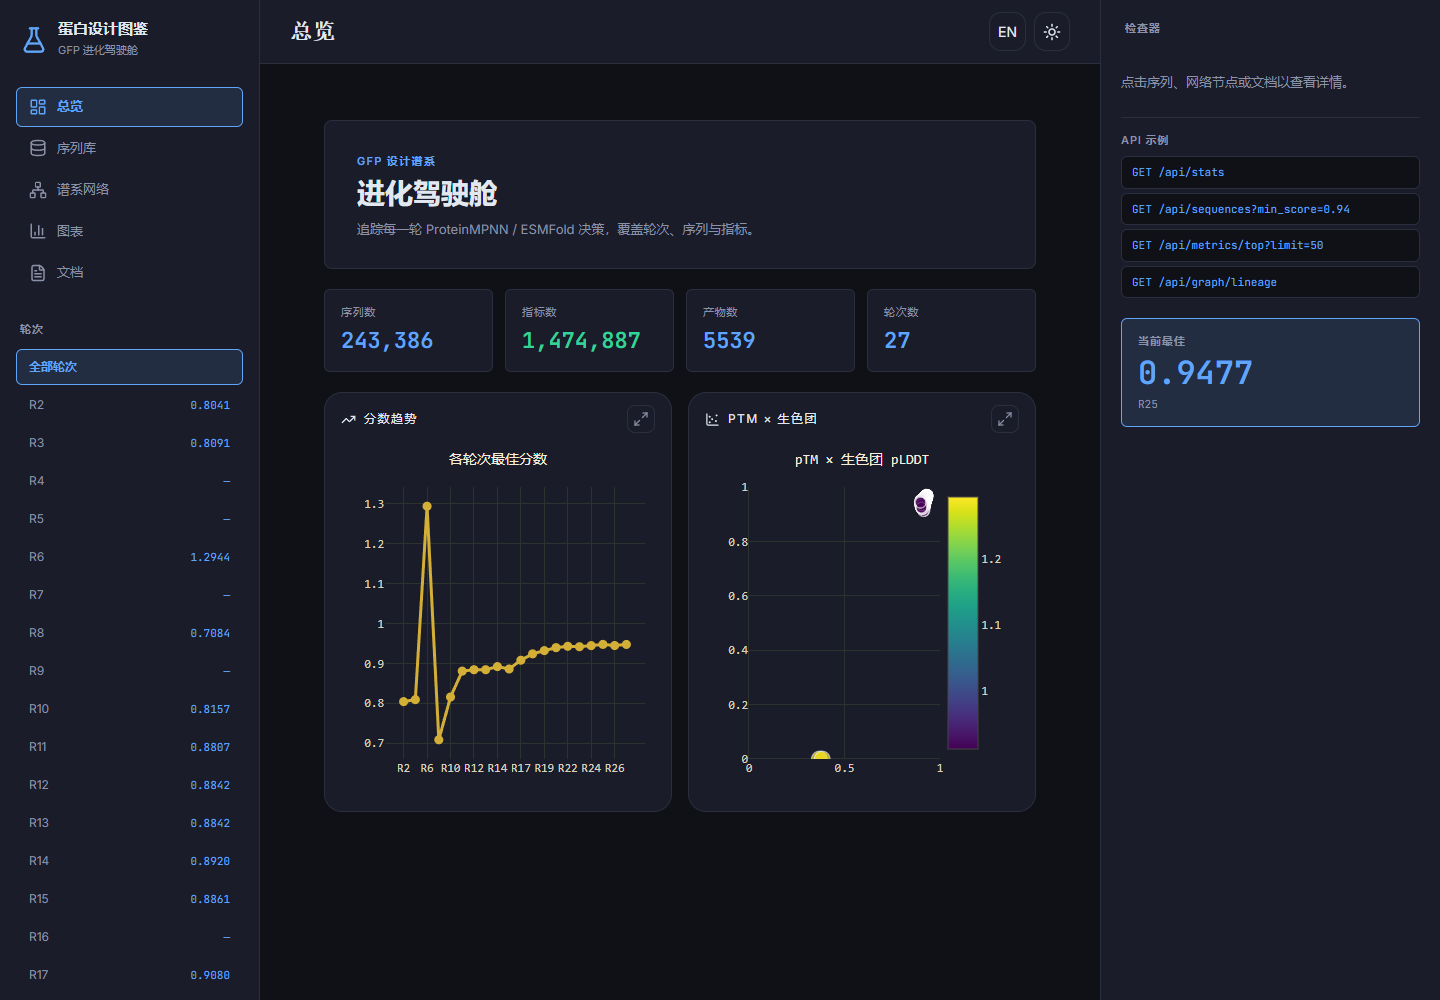
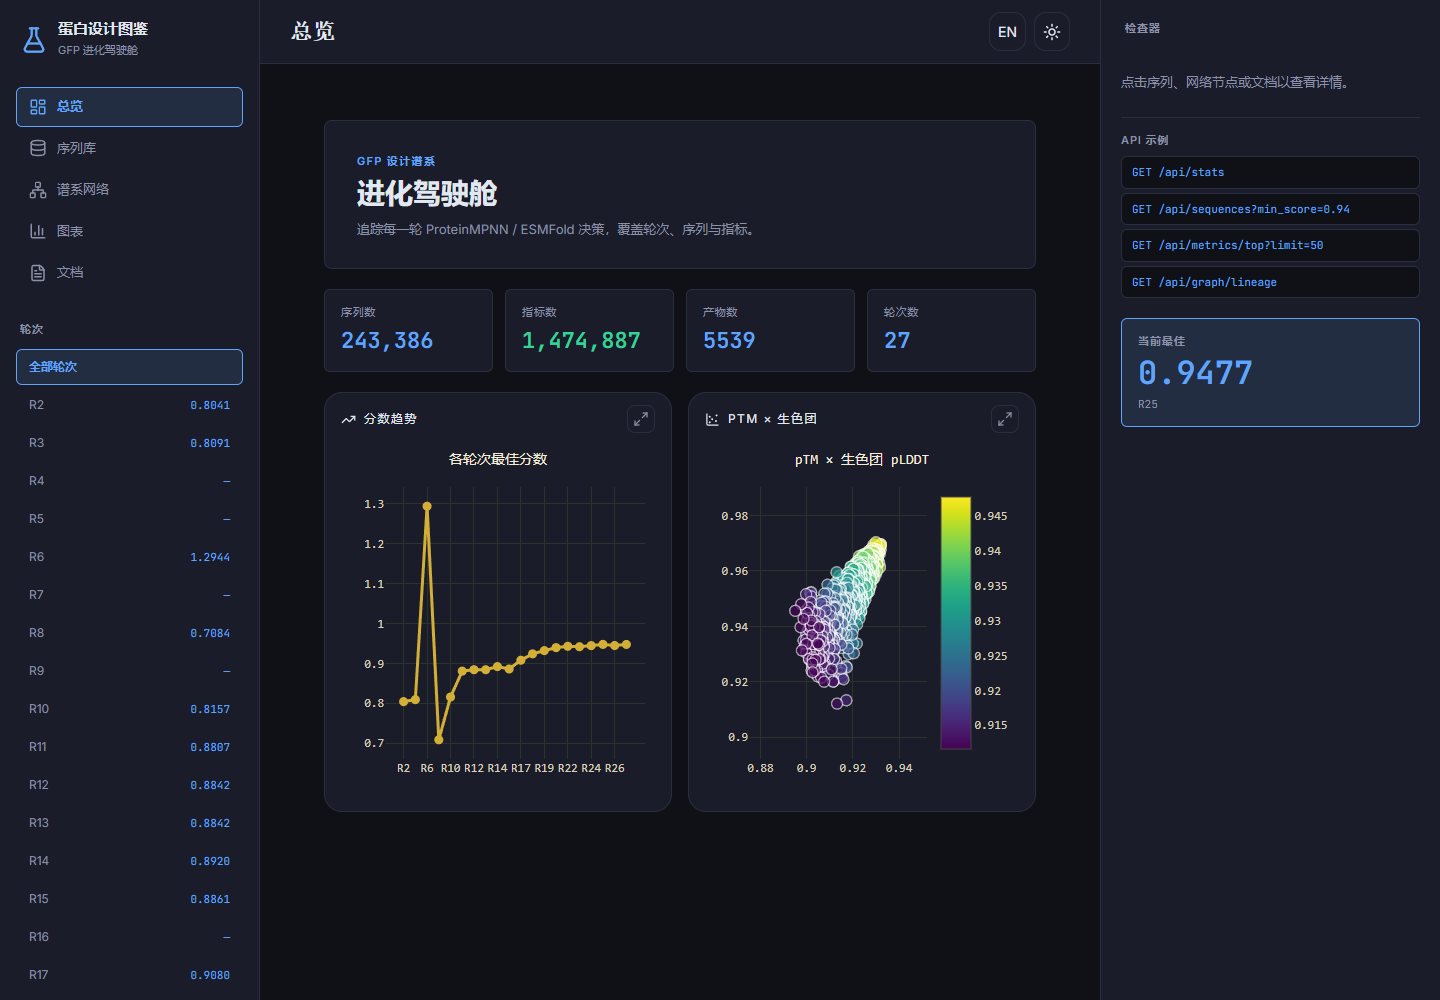
Fix: exclude R6 outliers, auto-fit scatter axes, fix network first-render

diff --git a/frontend/src/main.jsx b/frontend/src/main.jsx
@@ -328,19 +328,29 @@ function Dashboard({stats, trend, scatter, fsKey, setFsKey}) {
     return {...l, yaxis: {...l.yaxis, title: t.axisScore}}
   }, [theme, t])
 
-  const scatterTraces = useMemo(() => scatter.length ? [{
-    x: scatter.map(d => num(d.ptm)), y: scatter.map(d => num(d.chromo)),
-    text: scatter.map(d => `${d.source_round}<br>${num(d.score).toFixed(4)}`),
-    mode: 'markers', type: 'scatter',
-    marker: {
-      size: scatter.map(d => Math.max(5, num(d.score) * 12)),
-      color: scatter.map(d => num(d.score)), colorscale: 'Viridis', showscale: true
-    }
-  }] : [], [scatter])
+  const scatterTraces = useMemo(() => {
+    // 排除 R6 异常值（pLDDT 尺度异常）
+    const filtered = scatter.filter(d => d.source_round !== 'R6' && num(d.ptm) > 0 && num(d.chromo) > 0)
+    return filtered.length ? [{
+      x: filtered.map(d => num(d.ptm)), y: filtered.map(d => num(d.chromo)),
+      text: filtered.map(d => `${d.source_round}<br>${num(d.score).toFixed(4)}`),
+      mode: 'markers', type: 'scatter',
+      marker: {
+        size: filtered.map(d => Math.max(5, num(d.score) * 12)),
+        color: filtered.map(d => num(d.score)), colorscale: 'Viridis', showscale: true
+      }
+    }] : []
+  }, [scatter])
   const scatterLayout = useMemo(() => {
     const l = plotLayout(t.ptmVsChromo, theme)
-    return {...l, xaxis: {...l.xaxis, title: t.axisPtm, range: [0, 1]}, yaxis: {...l.yaxis, title: t.axisChromoPlddt, range: [0, 1]}}
-  }, [theme, t])
+    // 自适应范围，不硬编码 [0,1]
+    const pts = scatter.filter(d => d.source_round !== 'R6' && num(d.ptm) > 0 && num(d.chromo) > 0)
+    if (!pts.length) return l
+    const xs = pts.map(d => num(d.ptm)), ys = pts.map(d => num(d.chromo))
+    const xmin = Math.min(...xs) - 0.02, xmax = Math.max(...xs) + 0.02
+    const ymin = Math.min(...ys) - 0.02, ymax = Math.max(...ys) + 0.02
+    return {...l, xaxis: {...l.xaxis, title: t.axisPtm, range: [xmin, xmax]}, yaxis: {...l.yaxis, title: t.axisChromoPlddt, range: [ymin, ymax]}}
+  }, [theme, t, scatter])
 
   return (
     <main className="main">
@@ -430,6 +440,9 @@ function NetworkPage({onSelect, fsKey, setFsKey}) {
       })
       cy.on('tap', 'node', e => onSelect(e.target.data()))
       cyRef.current = cy
+      // 首次渲染时延迟 resize + fit，确保容器有尺寸
+      setTimeout(() => { if (cyRef.current) { cyRef.current.resize(); cyRef.current.fit(null, 30) } }, 200)
+      setTimeout(() => { if (cyRef.current) { cyRef.current.resize(); cyRef.current.fit(null, 30) } }, 500)
     })
     return () => { if (cy) cy.destroy() }
   }, [theme])